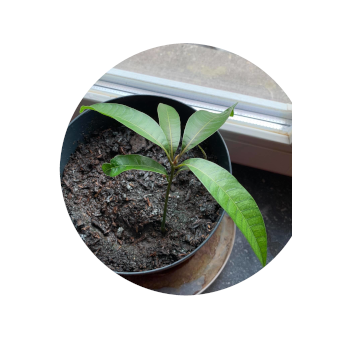
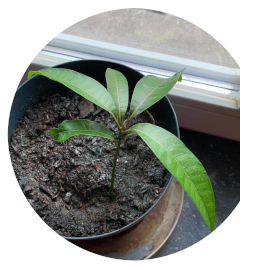
Tree pics.

diff --git a/src/app/map/map.component.ts b/src/app/map/map.component.ts
@@ -53,7 +53,7 @@ export class MapComponent implements OnInit {
     detectRetina: true,
     attribution:
       '&copy; <a href="https://www.openstreetmap.org/copyright">OpenStreetMap</a> contributors',
-    maxZoom: 10,
+    maxZoom: 11,
   });
 
   wMaps = tileLayer("http://maps.wikimedia.org/osm-intl/{z}/{x}/{y}.png", {